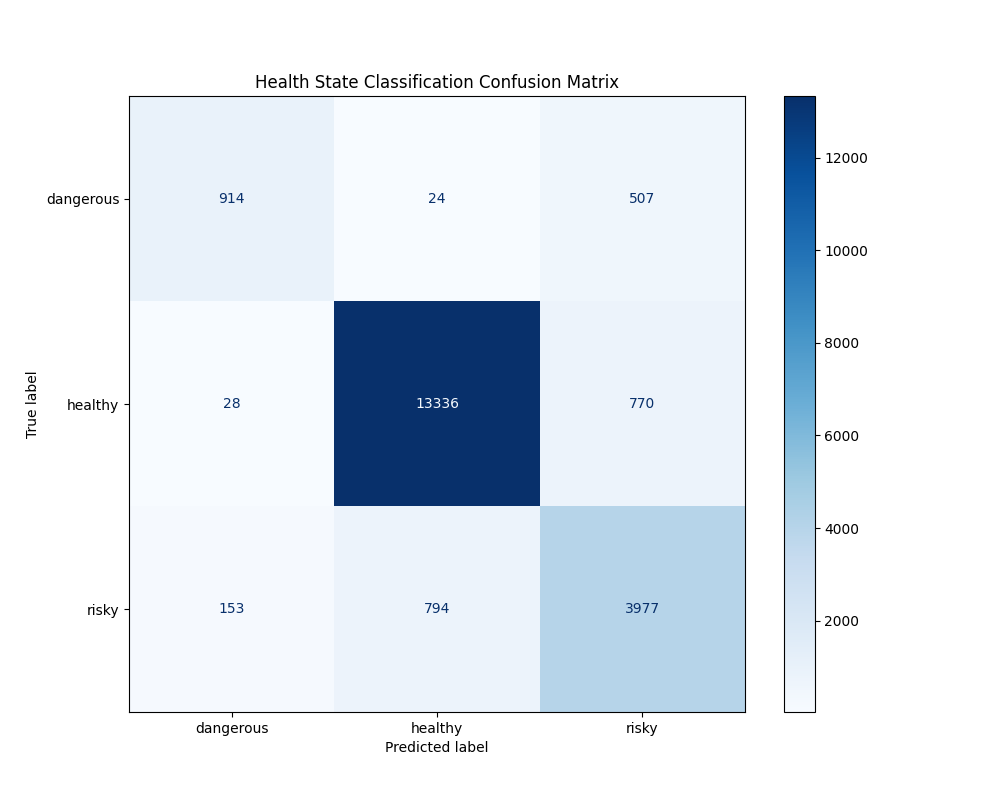
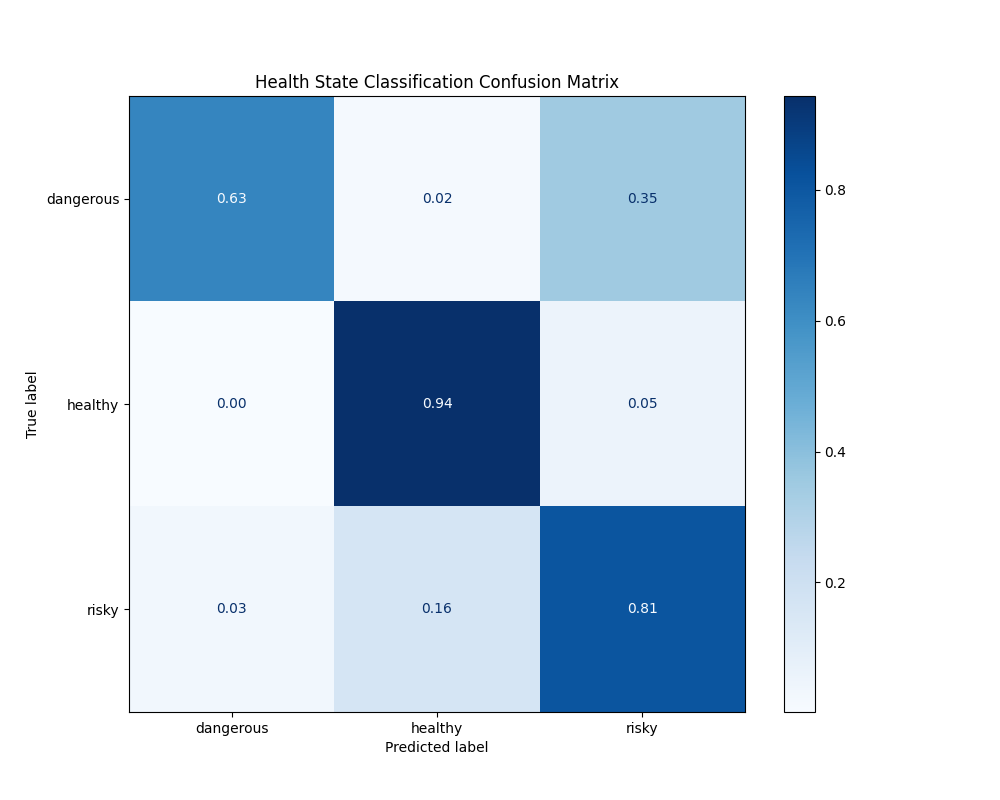
confusion matrix normalized

diff --git a/ClassificationAlgorithm/training_process.py b/ClassificationAlgorithm/training_process.py
@@ -143,11 +143,11 @@ def train_health_model():
 
     # Confusion Matrix Visualization
     print("\nStep 7.1: Generating Confusion Matrix...")
-    cm = confusion_matrix(y_test, y_pred)
+    cm = confusion_matrix(y_test, y_pred, normalize='true')
     disp = ConfusionMatrixDisplay(confusion_matrix=cm, display_labels=label_encoder.classes_)
     
     fig, ax = plt.subplots(figsize=(10, 8))
-    disp.plot(ax=ax, cmap='Blues', values_format='d')
+    disp.plot(ax=ax, cmap='Blues', values_format='.2f')
     plt.title('Health State Classification Confusion Matrix')
     
     cm_path = os.path.join(os.path.dirname(Config.CLASSIFICATION["TRAINMODEL"]), "confusion_matrix.png")
